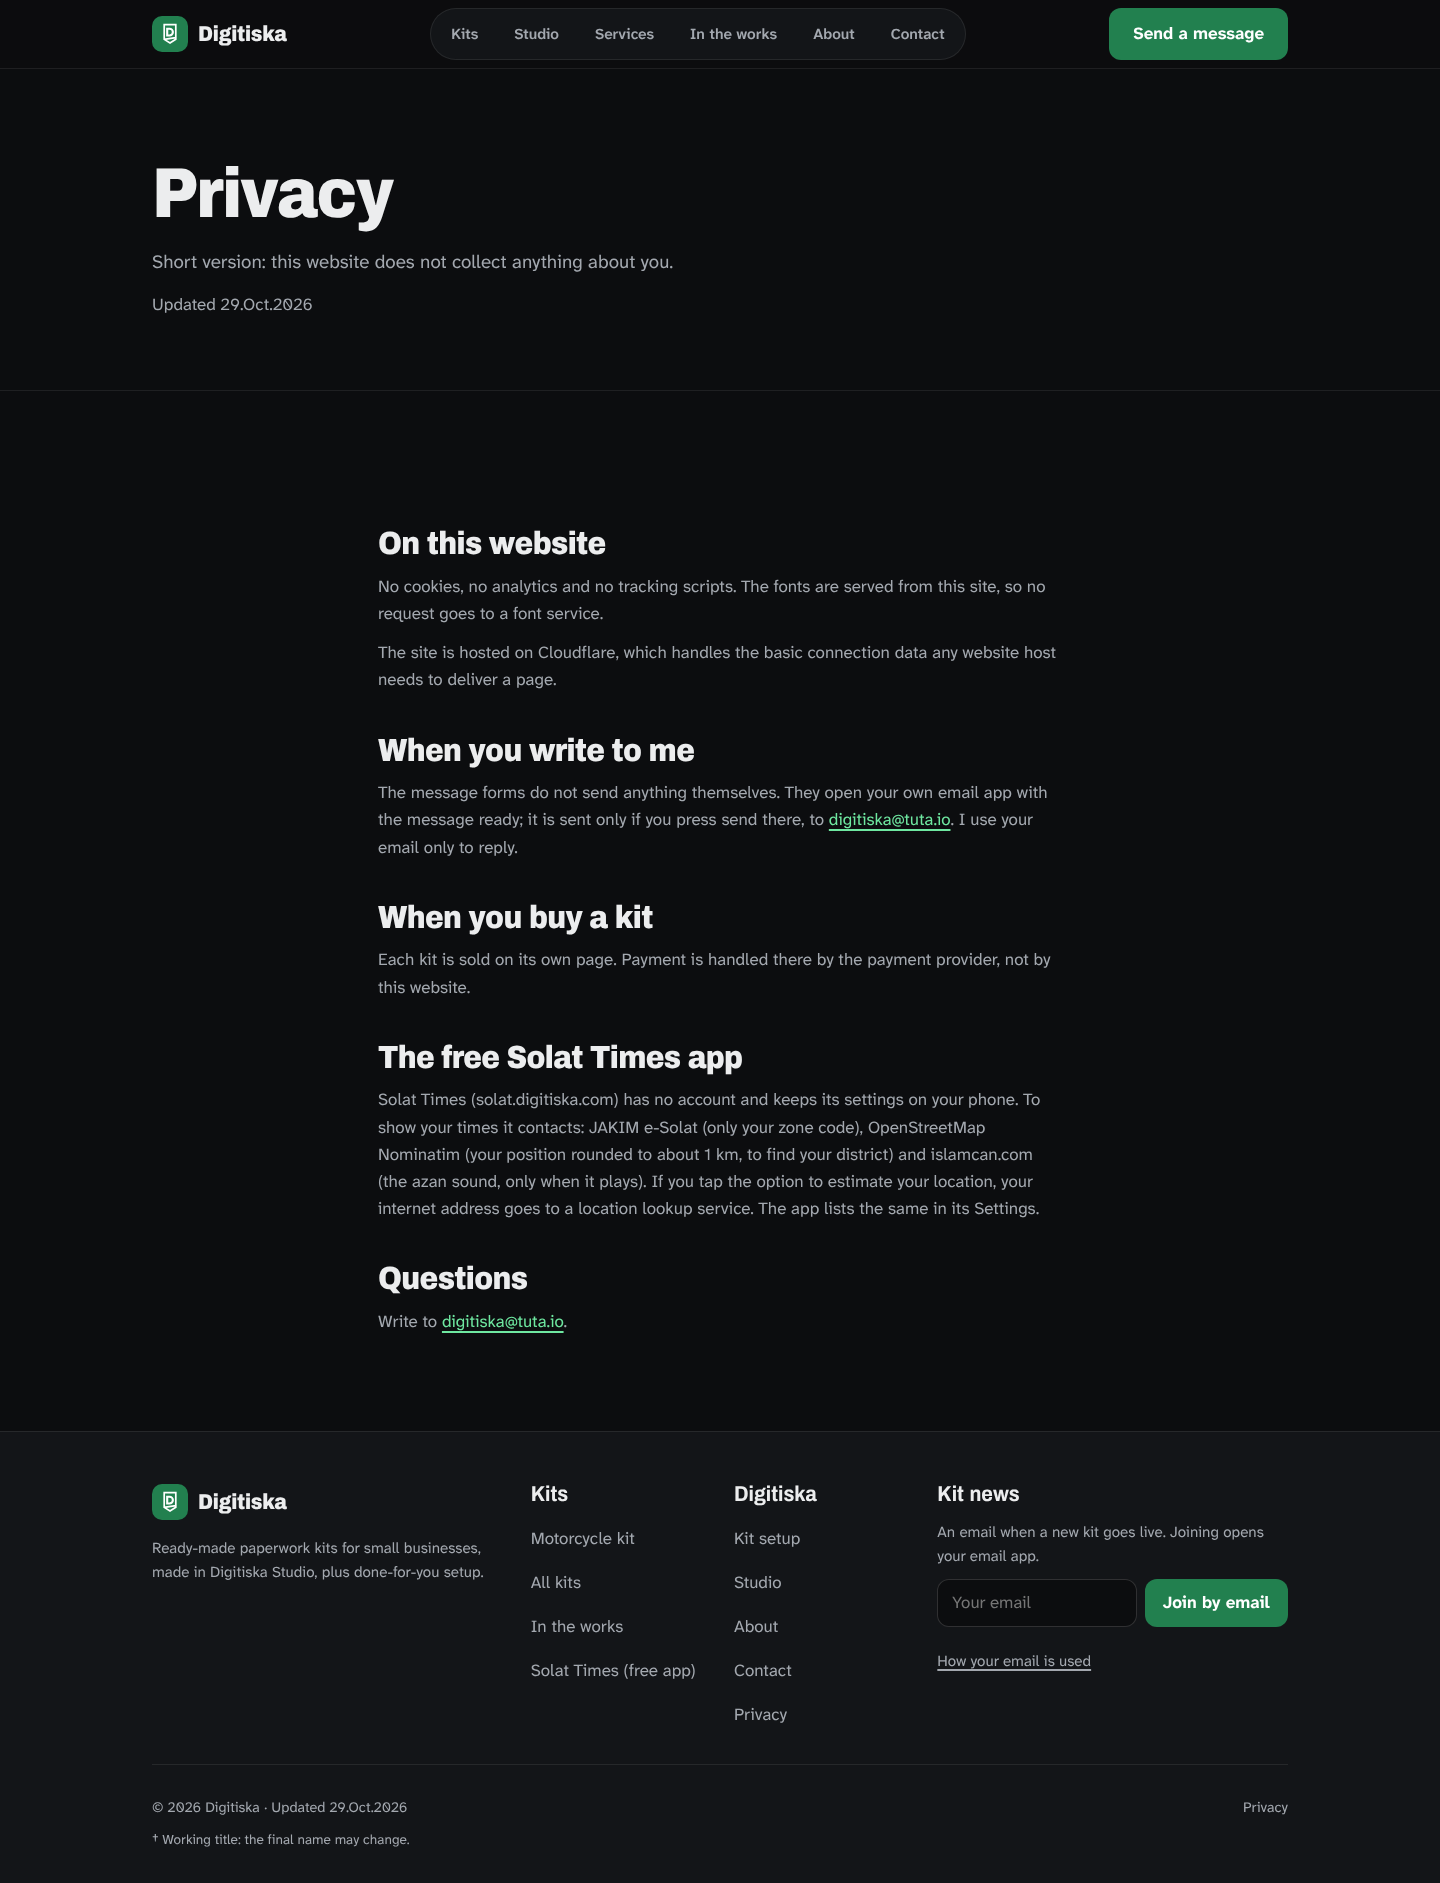
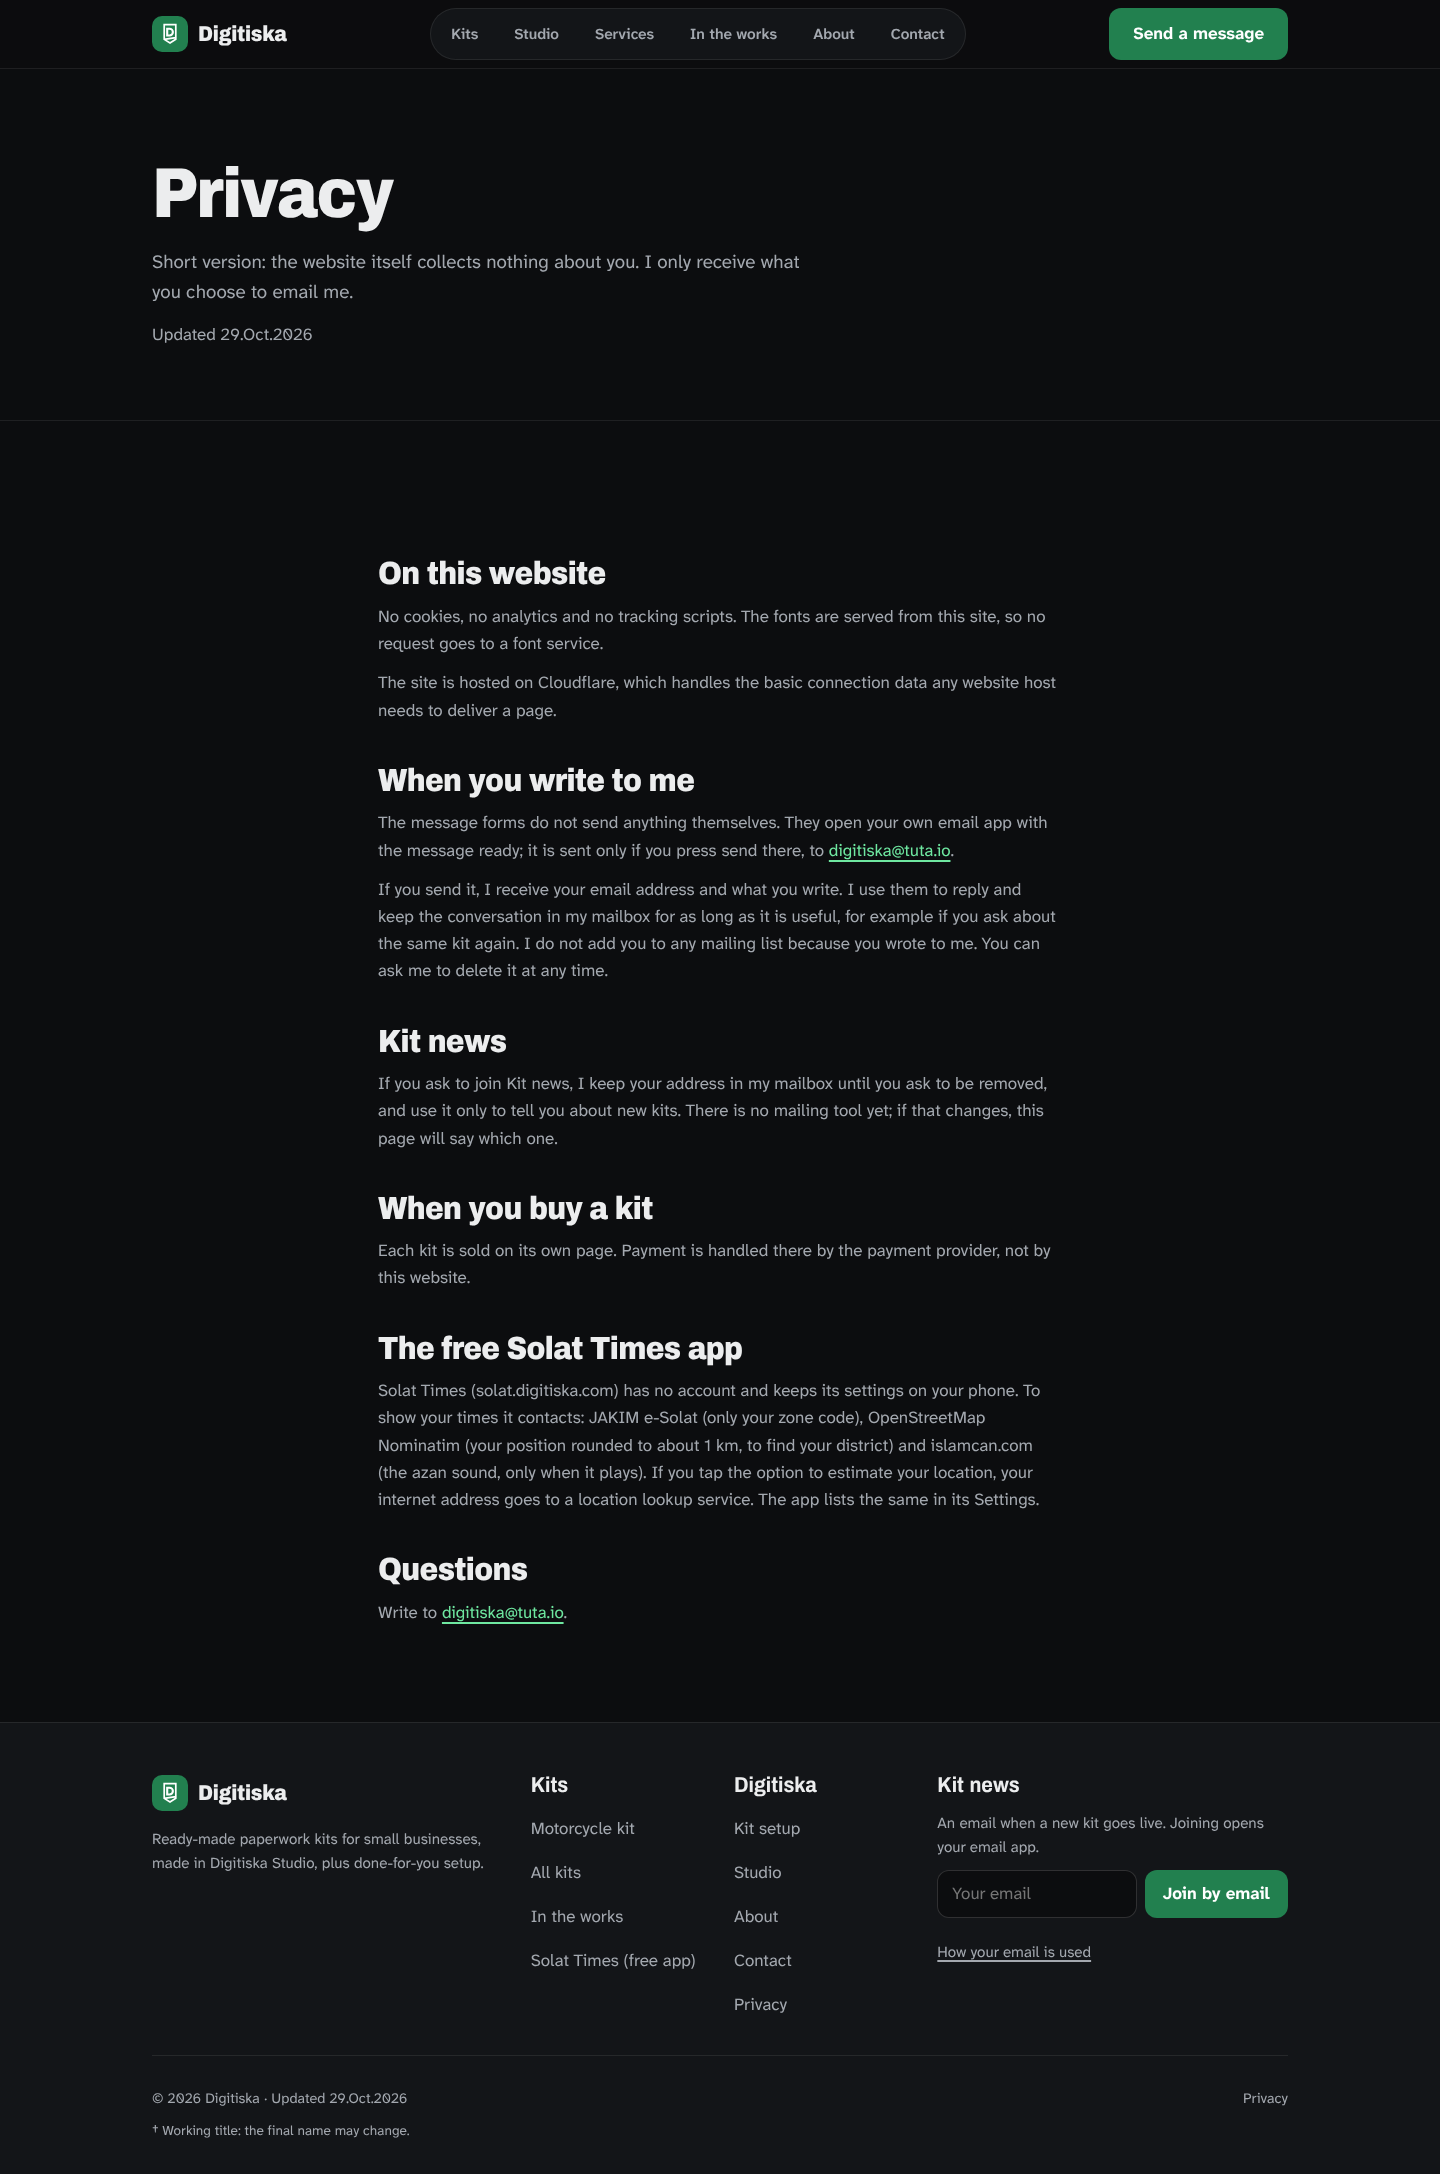
Privacy: say what happens to emails you send and to Kit news sign-ups
The website collects nothing, but emails sent by visitors reach the
owner's mailbox. The page now says so, how they are used and kept, that
writing in does not add anyone to a list, and what Kit news sign-ups are
used for.

Claude-Session: https://claude.ai/code/session_01DngUHHpV5KXMFS3rQduiSz

diff --git a/site/privacy.html b/site/privacy.html
@@ -52,13 +52,16 @@
 </header>
 
 <main>
-  <section class="page-hero wrap"><h1>Privacy</h1><p class="lede">Short version: this website does not collect anything about you.</p><p class="fact">Updated 29.Oct.2026</p></section>
+  <section class="page-hero wrap"><h1>Privacy</h1><p class="lede">Short version: the website itself collects nothing about you. I only receive what you choose to email me.</p><p class="fact">Updated 29.Oct.2026</p></section>
   <section class="sec"><div class="wrap prose">
     <h2>On this website</h2>
     <p>No cookies, no analytics and no tracking scripts. The fonts are served from this site, so no request goes to a font service.</p>
     <p>The site is hosted on Cloudflare, which handles the basic connection data any website host needs to deliver a page.</p>
     <h2>When you write to me</h2>
-    <p>The message forms do not send anything themselves. They open your own email app with the message ready; it is sent only if you press send there, to <a href="mailto:digitiska@tuta.io">digitiska@tuta.io</a>. I use your email only to reply.</p>
+    <p>The message forms do not send anything themselves. They open your own email app with the message ready; it is sent only if you press send there, to <a href="mailto:digitiska@tuta.io">digitiska@tuta.io</a>.</p>
+    <p>If you send it, I receive your email address and what you write. I use them to reply and keep the conversation in my mailbox for as long as it is useful, for example if you ask about the same kit again. I do not add you to any mailing list because you wrote to me. You can ask me to delete it at any time.</p>
+    <h2>Kit news</h2>
+    <p>If you ask to join Kit news, I keep your address in my mailbox until you ask to be removed, and use it only to tell you about new kits. There is no mailing tool yet; if that changes, this page will say which one.</p>
     <h2>When you buy a kit</h2>
     <p>Each kit is sold on its own page. Payment is handled there by the payment provider, not by this website.</p>
     <h2>The free Solat Times app</h2>
